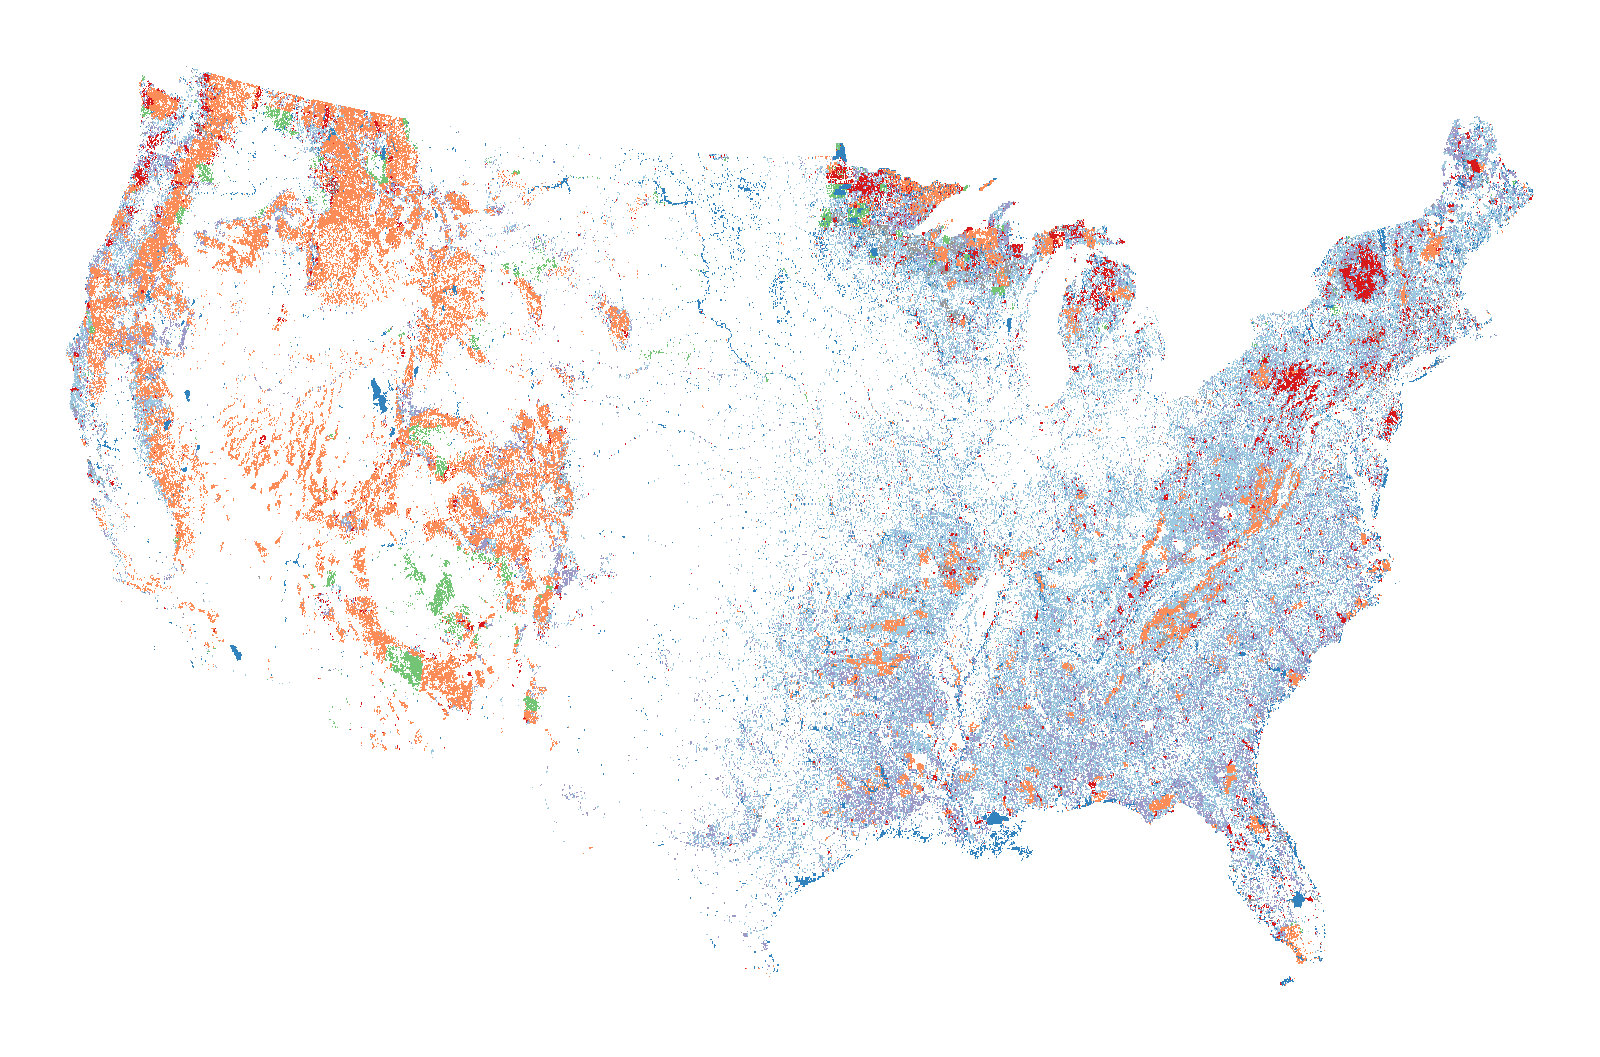
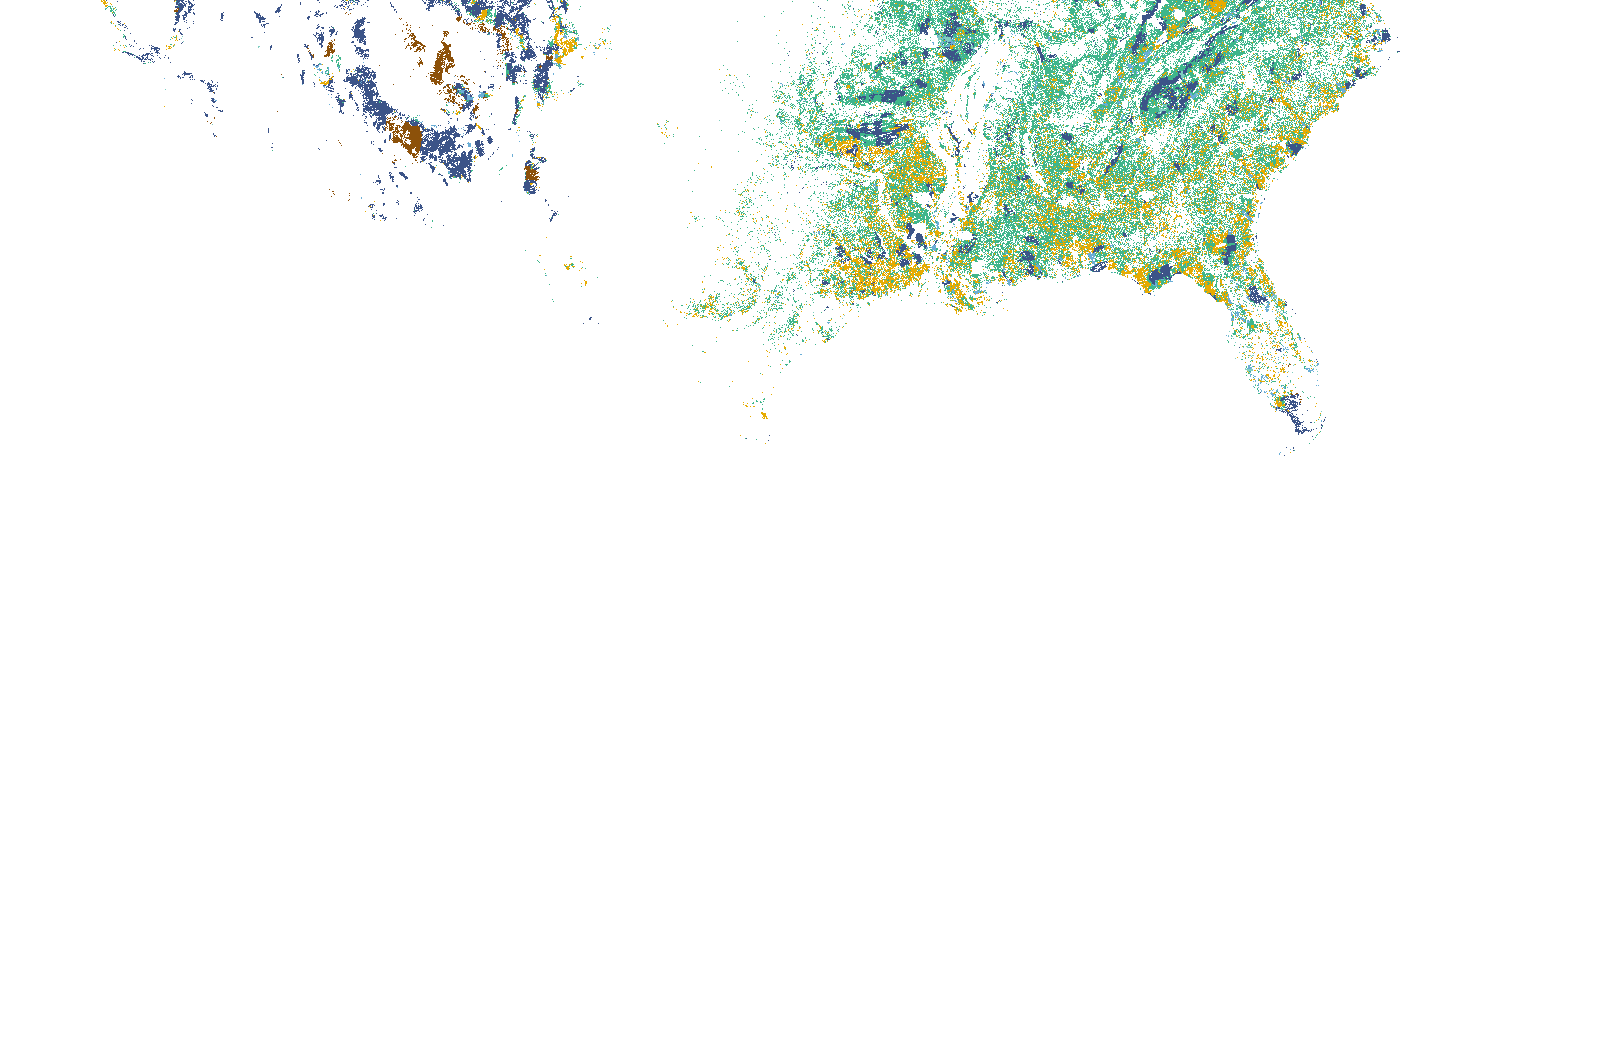
Full-CONUS forest ownership raster + legend (Landowner bin)
Re-render conus_ownership from the full-US Harris 2025 ownership source
(was northern-only). Mode-resampled to CONUS Albers; forest-owner classes
colored (Family/Corporate/Federal/State/Tribal/Local), non-forest transparent.
Adds the matching categorical legend.

diff --git a/src/App.jsx b/src/App.jsx
@@ -55,6 +55,16 @@ const CONUS_LEGENDS = {
     lo: "2001", mid: "2012", hi: "2023",
     note: "Hansen Global Forest Change, year of stand-replacing loss",
   },
+  ownership: {
+    title: "Forest ownership (CONUS)",
+    type: "categorical",
+    stops: [
+      ["#3fb68b", "Family forest (NIPF)"], ["#e6ab02", "Corporate / other private"],
+      ["#3C5488", "Federal"], ["#6baed6", "State"],
+      ["#8c510a", "Tribal"], ["#80cdc1", "Local"],
+    ],
+    note: "Harris et al. 2025 collapsed US forest ownership; non-forest transparent",
+  },
   hybrid_agc2022: {
     title: "Hybrid AG carbon, 2022 (Mg C/ha)",
     type: "ramp",